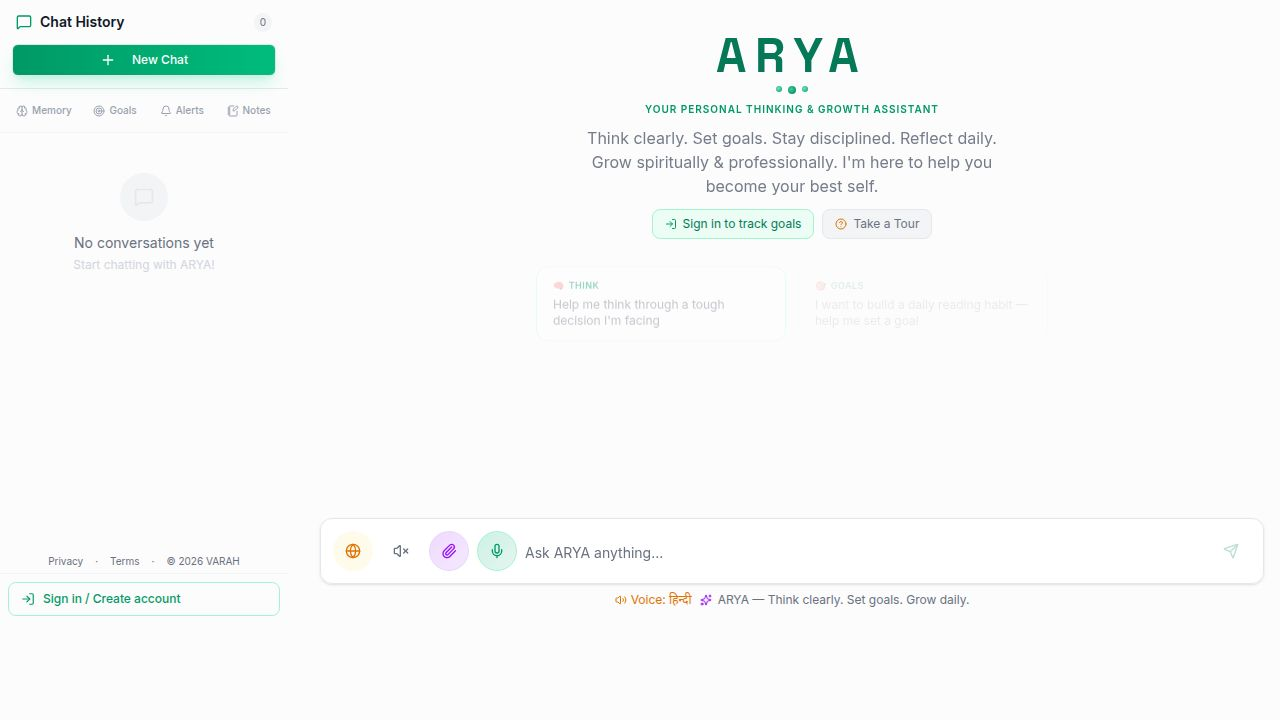
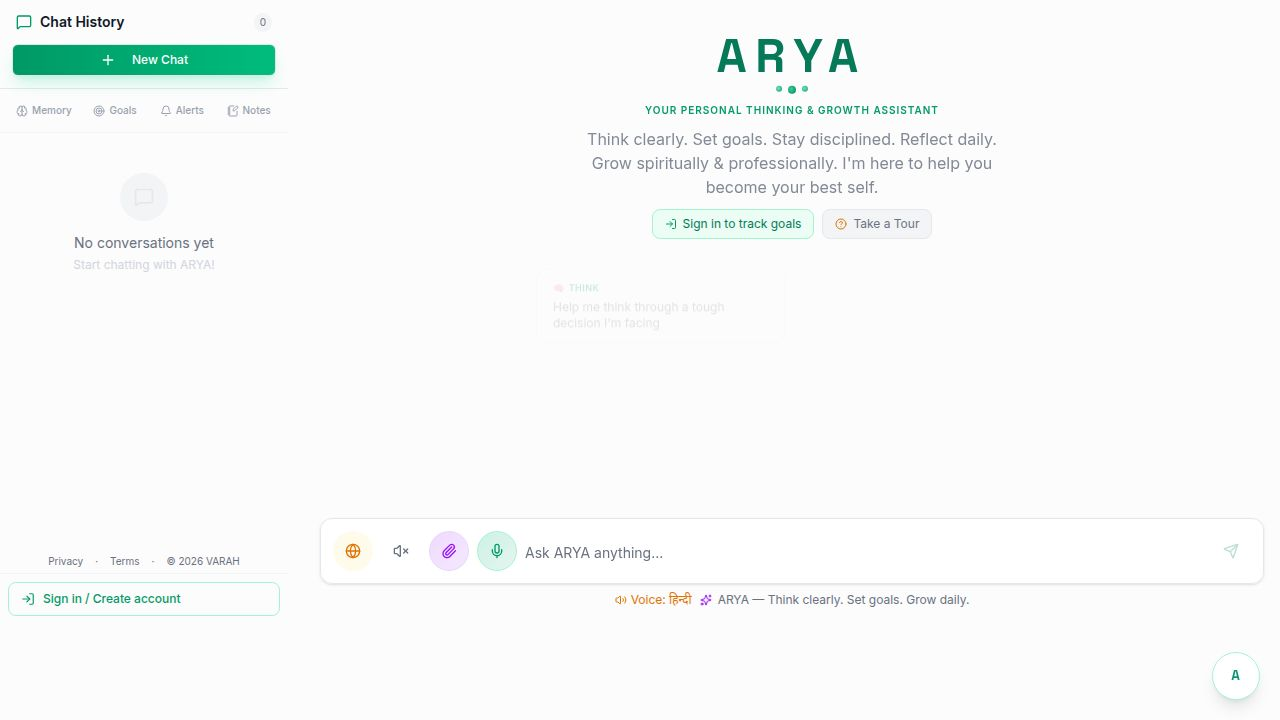
Remove the persistent Replit deployment badge from the application interface
Add a JavaScript MutationObserver to `index.html` to dynamically detect and remove the Replit deployment badge, ensuring it is not visible to users.

Replit-Commit-Author: Agent
Replit-Commit-Session-Id: 7b145150-db39-47d4-af7e-e2ff8b1b403d
Replit-Commit-Checkpoint-Type: full_checkpoint
Replit-Commit-Event-Id: 1d7b4538-e889-4e37-bb98-2b95f9c8cd70
Replit-Commit-Screenshot-Url: https://storage.googleapis.com/screenshot-production-us-central1/9228cbc9-64ab-41d4-8aa4-89fc651b90ae/7b145150-db39-47d4-af7e-e2ff8b1b403d/IR7HICU
Replit-Helium-Checkpoint-Created: true

diff --git a/client/index.html b/client/index.html
@@ -29,5 +29,47 @@
   <body>
     <div id="root"></div>
     <script type="module" src="/src/main.tsx"></script>
+    <script>
+      // Remove Replit's injected deployment badge
+      (function () {
+        function removeReplitBadge() {
+          // Target by common Replit badge identifiers
+          var selectors = [
+            '#replit-badge',
+            '[data-cy="feedback-button"]',
+            'a[href*="replit.com/badge"]',
+            'iframe[src*="replit.com"]',
+            'div[class*="replit-badge"]',
+            'div[id*="replit-badge"]',
+          ];
+          selectors.forEach(function (sel) {
+            try {
+              document.querySelectorAll(sel).forEach(function (el) {
+                el.remove();
+              });
+            } catch (e) {}
+          });
+
+          // Broader sweep: any fixed-positioned element injected at body level
+          // that contains a link to replit.com
+          try {
+            document.querySelectorAll('body > div').forEach(function (el) {
+              var style = window.getComputedStyle(el);
+              if (style.position === 'fixed') {
+                var html = el.innerHTML || '';
+                if (html.includes('replit') || html.includes('Replit')) {
+                  el.style.setProperty('display', 'none', 'important');
+                }
+              }
+            });
+          } catch (e) {}
+        }
+
+        // Run immediately and on every DOM change
+        removeReplitBadge();
+        var observer = new MutationObserver(removeReplitBadge);
+        observer.observe(document.body, { childList: true, subtree: false });
+      })();
+    </script>
   </body>
 </html>